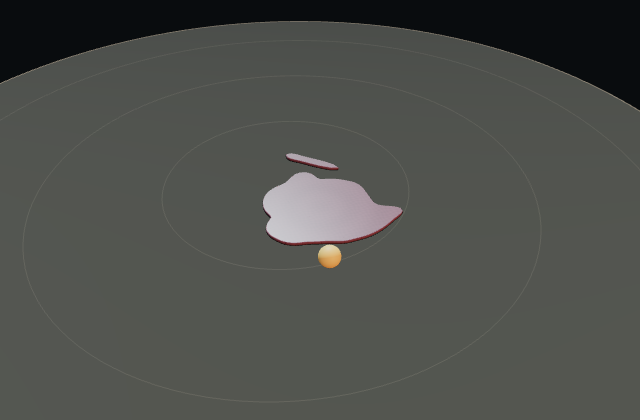
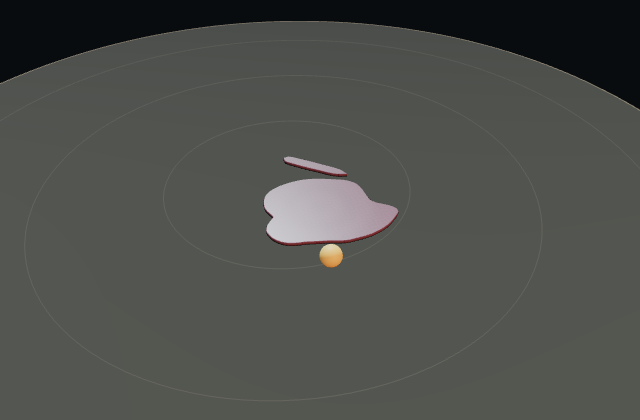
Reel Peristaling stragglers back before they shear off

diff --git a/src/peristaling/controller.ts b/src/peristaling/controller.ts
@@ -52,8 +52,10 @@ export class Peristaling extends Cutisling{
     if(!this.locked){
       // Elliptical cohesion keeps the ribbon.
       const a=this.radius*1.3,b=this.radius*.5,rho=Math.hypot(this.along[i]/a,this.across[i]/b);
-      if(rho>1){const cx=x-this.centerX,cz=z-this.centerZ,rc=Math.hypot(cx,cz)||.001,pull=(rho-1)*4;ax-=cx/rc*pull;az-=cz/rc*pull;}
+      // Linear inside the margin, quadratic beyond it: stragglers are reeled back before they shear off.
+      if(rho>1){const cx=x-this.centerX,cz=z-this.centerZ,rc=Math.hypot(cx,cz)||.001,pull=(rho-1)*6+(rho-1)**2*20;ax-=cx/rc*pull;az-=cz/rc*pull;}
     }
+    else{const far=Math.max(0,r-3.4);if(far>0){ax-=dx/r*far*14;az-=dz/r*far*14;}}
     const hx=Math.cos(this.heading),hz=Math.sin(this.heading),gain=THRUST*(1+.6*this.wave.burst);
     if(grip<.05||c>0){const power=grip<.05?gain*.4:c*c*gain;ax+=this.thrustX[i]*power;az+=this.thrustZ[i]*power;}
     else{
